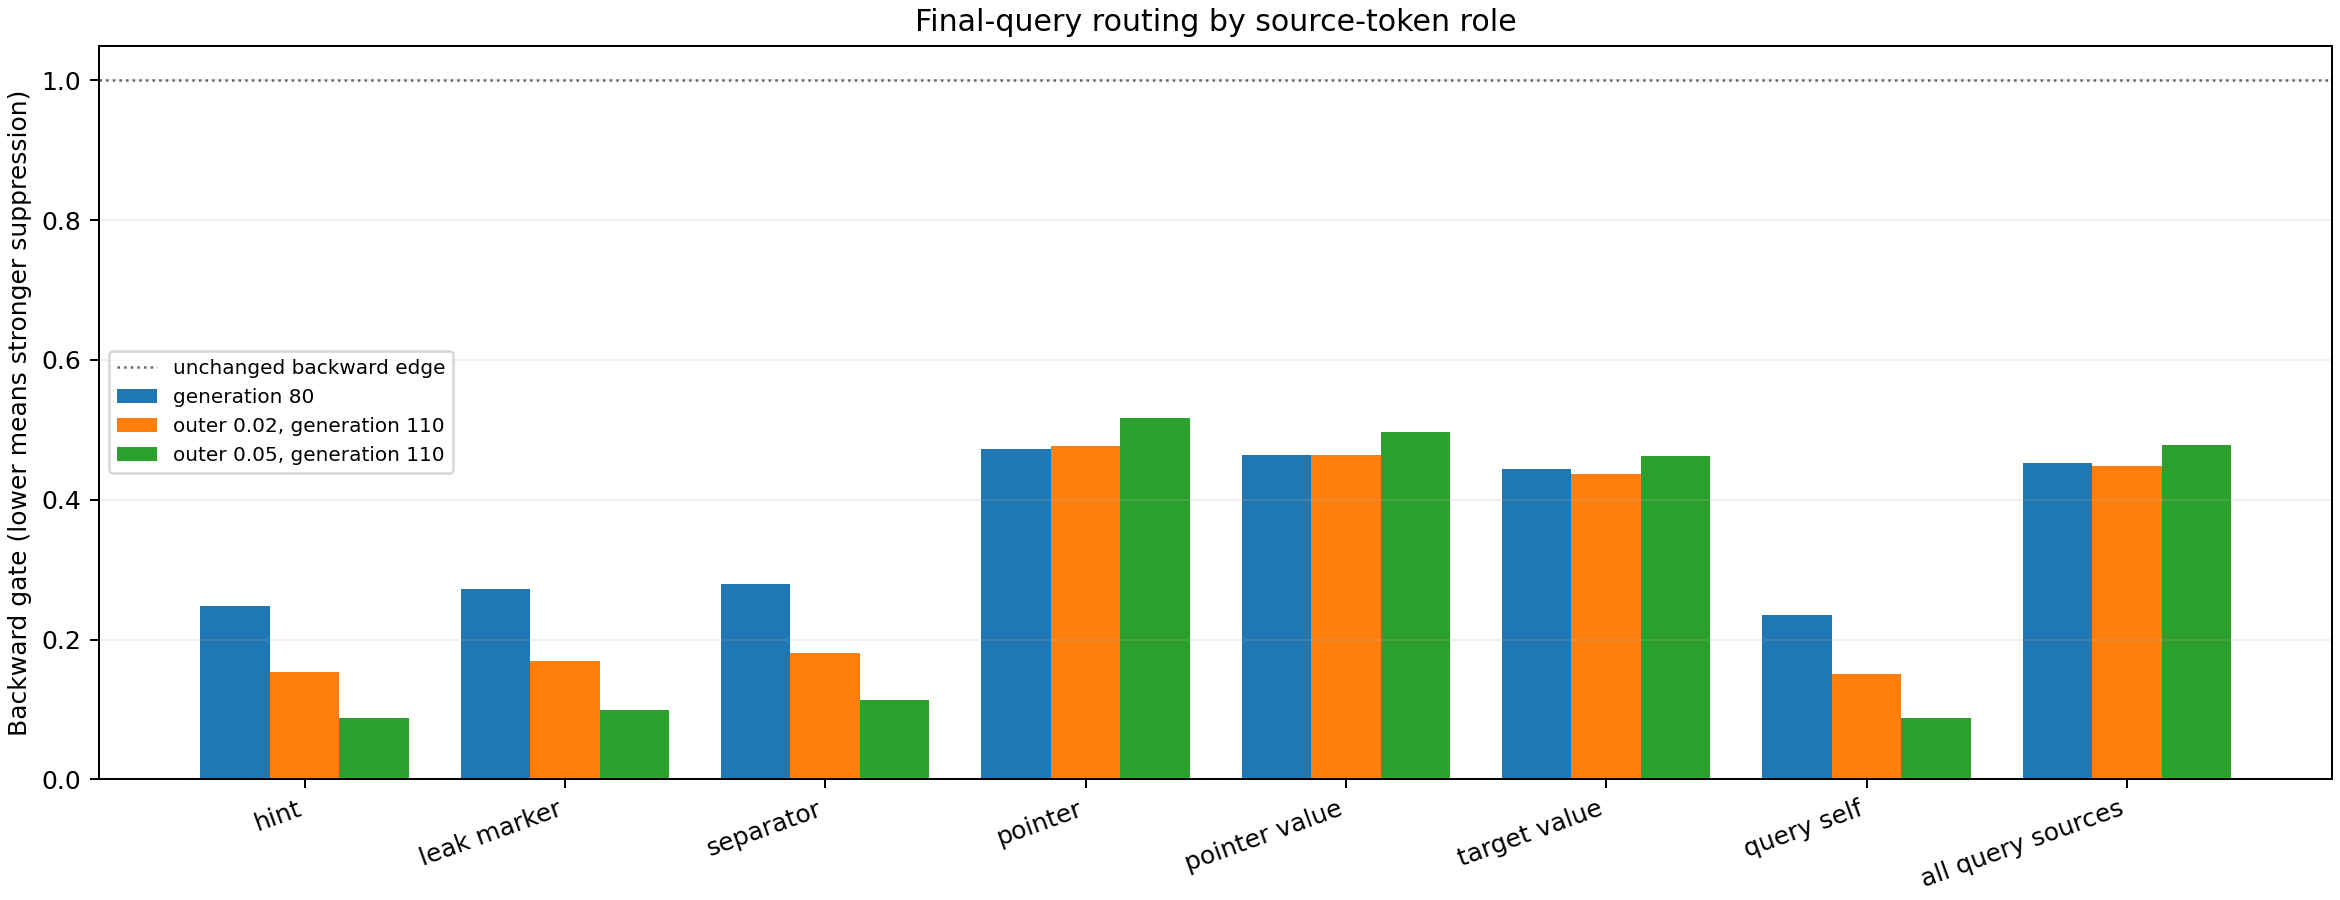
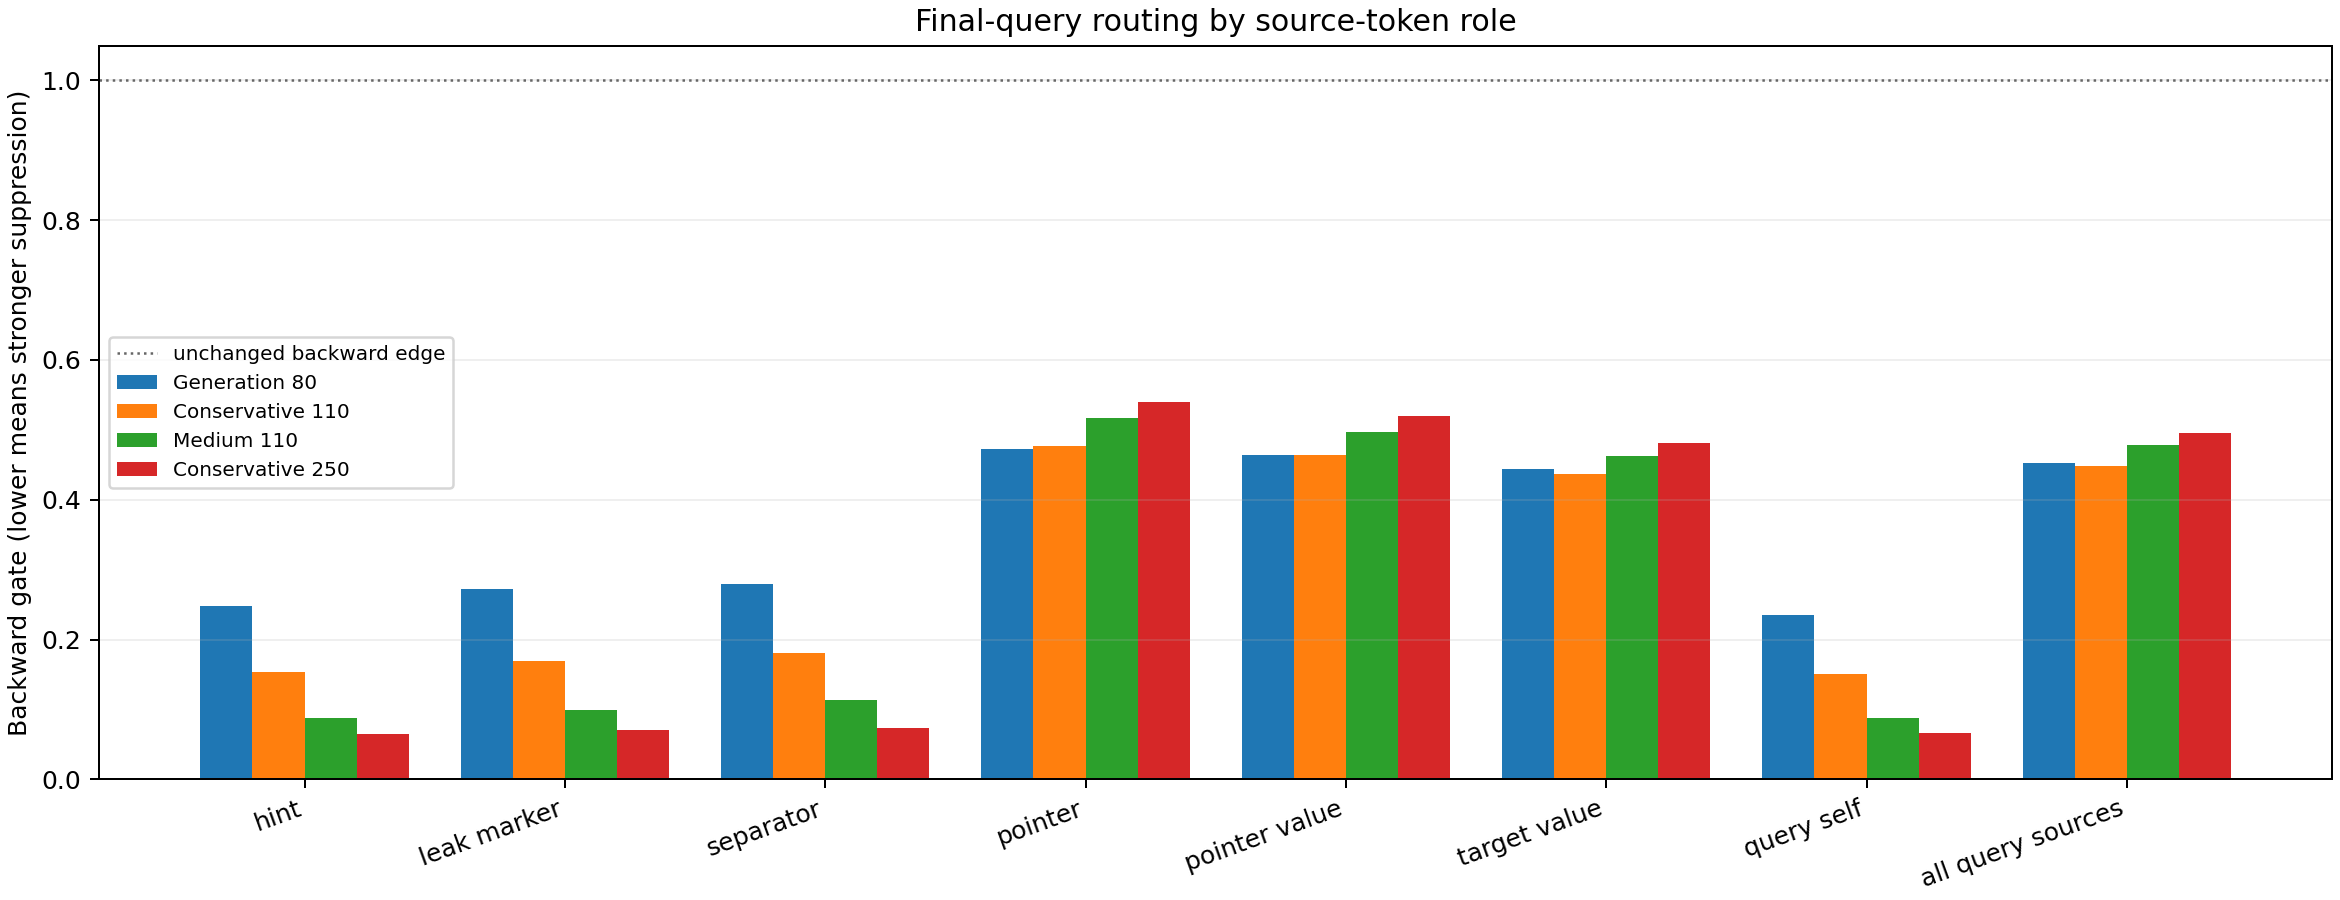
Validate fixed shortcut rule across replications

diff --git a/experiments/learned_backward_shortcuts/checkpoint_replication_diagnostic.py b/experiments/learned_backward_shortcuts/checkpoint_replication_diagnostic.py
@@ -1,0 +1,239 @@
+"""Replicate a learned backward-rule checkpoint against matched controls."""
+
+from __future__ import annotations
+
+import argparse
+import json
+import statistics
+from dataclasses import replace
+from pathlib import Path
+
+import torch
+
+from list_sorting_transformer.shortcut_credit import (
+    ShortcutPointerVocabulary,
+    make_fitness_batches,
+)
+from list_sorting_transformer.shortcut_credit_experiment import (
+    ShortcutCreditExperimentConfig,
+    initialize_forward_model,
+    load_checkpoint,
+    make_inner_batches,
+    make_mode_batches,
+    train_forward_trajectory,
+    trajectory_summary,
+)
+
+
+def aggregate_rows(rows: list[dict[str, float]]) -> dict[str, float]:
+    if not rows:
+        raise ValueError("at least one replication row is required")
+    metric_keys = (
+        "center_rule/min_mode_accuracy",
+        "center_rule/correct_leak_accuracy",
+        "center_rule/clean_loss",
+        "ordinary_rule/min_mode_accuracy",
+        "ordinary_rule/correct_leak_accuracy",
+        "ordinary_rule/clean_loss",
+        "masked_training/min_mode_accuracy",
+        "masked_training/correct_leak_accuracy",
+        "masked_training/clean_loss",
+        "comparison/center_minus_ordinary_min_accuracy",
+        "comparison/center_clean_loss_improvement_over_ordinary",
+    )
+    summary = {
+        f"mean/{key}": statistics.mean(row[key] for row in rows)
+        for key in metric_keys
+    }
+    accuracy_differences = [
+        row["comparison/center_minus_ordinary_min_accuracy"]
+        for row in rows
+    ]
+    loss_differences = [
+        row["comparison/center_clean_loss_improvement_over_ordinary"]
+        for row in rows
+    ]
+    summary.update(
+        {
+            "replicates": float(len(rows)),
+            "comparison/center_accuracy_win_fraction": (
+                sum(value > 0 for value in accuracy_differences) / len(rows)
+            ),
+            "comparison/center_loss_win_fraction": (
+                sum(value > 0 for value in loss_differences) / len(rows)
+            ),
+        }
+    )
+    return summary
+
+
+def main() -> None:
+    parser = argparse.ArgumentParser(description=__doc__)
+    parser.add_argument("--checkpoint", type=Path, required=True)
+    parser.add_argument("--replicates", type=int, default=20)
+    parser.add_argument("--replicate-start", type=int, default=0)
+    parser.add_argument("--generation-offset", type=int, default=1_000)
+    parser.add_argument("--horizon", type=int)
+    parser.add_argument("--device", default="cuda:0")
+    parser.add_argument("--output", type=Path, required=True)
+    parser.add_argument("--summary-output", type=Path)
+    args = parser.parse_args()
+    if args.replicates < 1:
+        raise ValueError("replicates must be positive")
+
+    device = torch.device(args.device)
+    checkpoint = torch.load(args.checkpoint, map_location=device)
+    saved_config = ShortcutCreditExperimentConfig(**checkpoint["config"])
+    backward_rule, _, checkpoint_horizon, _ = load_checkpoint(
+        args.checkpoint,
+        device=device,
+    )
+    horizon = checkpoint_horizon if args.horizon is None else args.horizon
+    config = replace(
+        saved_config,
+        horizon=horizon,
+        max_horizon=max(horizon, saved_config.max_horizon),
+        device=args.device,
+        resume=None,
+        wandb=False,
+    )
+    vocabulary = ShortcutPointerVocabulary("numbers", 10)
+    rows: list[dict[str, float]] = []
+    for replicate in range(
+        args.replicate_start,
+        args.replicate_start + args.replicates,
+    ):
+        generation = args.generation_offset + replicate
+        generation_seed = config.seed * 1_000_003 + generation * 10_007
+        base_model = initialize_forward_model(
+            config,
+            vocabulary,
+            initialization_seed=generation_seed + 1,
+            device=device,
+        )
+        base_state = {
+            name: tensor.detach().clone()
+            for name, tensor in base_model.state_dict().items()
+        }
+        del base_model
+        inner_batches = make_inner_batches(
+            config,
+            horizon=horizon,
+            vocabulary=vocabulary,
+            generator=torch.Generator().manual_seed(generation_seed + 2),
+            device=device,
+        )
+        masked_inner_batches = make_inner_batches(
+            config,
+            horizon=horizon,
+            vocabulary=vocabulary,
+            generator=torch.Generator().manual_seed(generation_seed + 2),
+            device=device,
+            leak_mode="masked",
+        )
+        evaluation_generator = torch.Generator().manual_seed(
+            generation_seed + 4
+        )
+        clean_batches = make_fitness_batches(
+            config.fitness_examples,
+            min_length=config.min_length,
+            max_length=config.max_length,
+            batch_size=config.fitness_batch_size,
+            generator=evaluation_generator,
+            vocabulary=vocabulary,
+            leak_placement=config.leak_placement,
+            device=device,
+        )
+        correct_batches = make_mode_batches(
+            config.correct_eval_examples,
+            leak_mode="correct",
+            config=config,
+            vocabulary=vocabulary,
+            generator=evaluation_generator,
+            device=device,
+        )
+        center = train_forward_trajectory(
+            config,
+            base_state=base_state,
+            backward_rule=backward_rule,
+            inner_batches=inner_batches,
+            fitness_batches=clean_batches,
+            correct_batches=correct_batches,
+            device=device,
+        )
+        ordinary = train_forward_trajectory(
+            config,
+            base_state=base_state,
+            backward_rule=None,
+            inner_batches=inner_batches,
+            fitness_batches=clean_batches,
+            correct_batches=correct_batches,
+            device=device,
+        )
+        masked = train_forward_trajectory(
+            config,
+            base_state=base_state,
+            backward_rule=None,
+            inner_batches=masked_inner_batches,
+            fitness_batches=clean_batches,
+            correct_batches=correct_batches,
+            device=device,
+        )
+        row: dict[str, float] = {
+            "replicate": float(replicate),
+            "generation_seed": float(generation_seed),
+        }
+        row.update(
+            trajectory_summary(
+                "center_rule",
+                None,
+                center.clean,
+                center.correct,
+            )
+        )
+        row.update(
+            trajectory_summary(
+                "ordinary_rule",
+                None,
+                ordinary.clean,
+                ordinary.correct,
+            )
+        )
+        row.update(
+            trajectory_summary(
+                "masked_training",
+                None,
+                masked.clean,
+                masked.correct,
+            )
+        )
+        row.update(
+            {
+                "comparison/center_minus_ordinary_min_accuracy": (
+                    row["center_rule/min_mode_accuracy"]
+                    - row["ordinary_rule/min_mode_accuracy"]
+                ),
+                "comparison/center_clean_loss_improvement_over_ordinary": (
+                    row["ordinary_rule/clean_loss"]
+                    - row["center_rule/clean_loss"]
+                ),
+            }
+        )
+        rows.append(row)
+        print(json.dumps(row, sort_keys=True), flush=True)
+
+    summary = aggregate_rows(rows)
+    print(json.dumps({"summary": summary}, sort_keys=True), flush=True)
+    args.output.parent.mkdir(parents=True, exist_ok=True)
+    args.output.write_text(
+        "".join(json.dumps(row, sort_keys=True) + "\n" for row in rows)
+    )
+    if args.summary_output is not None:
+        args.summary_output.parent.mkdir(parents=True, exist_ok=True)
+        args.summary_output.write_text(
+            json.dumps(summary, indent=2, sort_keys=True) + "\n"
+        )
+
+
+if __name__ == "__main__":
+    main()

diff --git a/tests/test_shortcut_checkpoint_replication.py b/tests/test_shortcut_checkpoint_replication.py
@@ -1,0 +1,55 @@
+from __future__ import annotations
+
+import pytest
+
+from experiments.learned_backward_shortcuts.checkpoint_replication_diagnostic import (
+    aggregate_rows,
+)
+
+
+def test_aggregate_rows_reports_paired_control_advantages() -> None:
+    rows = [
+        {
+            "center_rule/min_mode_accuracy": 0.4,
+            "center_rule/correct_leak_accuracy": 0.8,
+            "center_rule/clean_loss": 1.2,
+            "ordinary_rule/min_mode_accuracy": 0.1,
+            "ordinary_rule/correct_leak_accuracy": 1.0,
+            "ordinary_rule/clean_loss": 2.0,
+            "masked_training/min_mode_accuracy": 0.5,
+            "masked_training/correct_leak_accuracy": 0.7,
+            "masked_training/clean_loss": 1.0,
+            "comparison/center_minus_ordinary_min_accuracy": 0.3,
+            "comparison/center_clean_loss_improvement_over_ordinary": 0.8,
+        },
+        {
+            "center_rule/min_mode_accuracy": 0.0,
+            "center_rule/correct_leak_accuracy": 1.0,
+            "center_rule/clean_loss": 2.5,
+            "ordinary_rule/min_mode_accuracy": 0.1,
+            "ordinary_rule/correct_leak_accuracy": 1.0,
+            "ordinary_rule/clean_loss": 2.2,
+            "masked_training/min_mode_accuracy": 0.4,
+            "masked_training/correct_leak_accuracy": 0.6,
+            "masked_training/clean_loss": 1.1,
+            "comparison/center_minus_ordinary_min_accuracy": -0.1,
+            "comparison/center_clean_loss_improvement_over_ordinary": -0.3,
+        },
+    ]
+
+    summary = aggregate_rows(rows)
+
+    assert summary["replicates"] == 2
+    assert summary[
+        "mean/comparison/center_minus_ordinary_min_accuracy"
+    ] == pytest.approx(0.1)
+    assert summary[
+        "mean/comparison/center_clean_loss_improvement_over_ordinary"
+    ] == pytest.approx(0.25)
+    assert summary["comparison/center_accuracy_win_fraction"] == 0.5
+    assert summary["comparison/center_loss_win_fraction"] == 0.5
+
+
+def test_aggregate_rows_rejects_empty_input() -> None:
+    with pytest.raises(ValueError):
+        aggregate_rows([])

diff --git a/experiments/learned_backward_shortcuts/PROGRESS.md b/experiments/learned_backward_shortcuts/PROGRESS.md
@@ -1178,8 +1178,15 @@ the solution faster, but no longer provides a material accuracy advantage.
 Conservative retains ten points more correct-leak accuracy and marginally
 better prediction diversity. The medium run was therefore stopped cleanly
 after generation 149 and its durable `checkpoint_000150.pt` was preserved,
-releasing GPUs 0-1 for the semantic follow-up. Conservative remains active
-through generation 250 to measure long-run stability.
+releasing GPUs 0-1 for the semantic follow-up. The conservative run completed
+generation 249 and saved its durable `checkpoint_000250.pt`.
+
+In the final generations 240--249, the conservative centre averages `21.33%`
+masked, `18.13%` wrong-hint, `38.05%` correct-hint, and `17.81%` weaker-split
+accuracy. Its mean clean CE is `2.292`, and the hint-edge gate has fallen to
+`0.129` relative to other query sources. The final individual row is noisier
+(`16.02%` weaker split), so checkpoint quality is assessed below over fresh
+replications rather than from that one row.
 
 ![Horizon-80 centre-step comparison](results/attention_router_center_step_comparison.png)
 
@@ -1195,6 +1202,7 @@ values mean stronger suppression:
 | Generation 80 | 0.247 | 0.272 | 0.280 | 0.473 | 0.465 | 0.443 | 0.235 | 0.453 |
 | Conservative generation 110 | 0.153 | 0.170 | 0.180 | 0.477 | 0.464 | 0.437 | 0.150 | 0.448 |
 | Medium generation 110 | 0.087 | 0.100 | 0.114 | 0.516 | 0.497 | 0.463 | 0.088 | 0.479 |
+| Conservative generation 250 | 0.064 | 0.070 | 0.074 | 0.540 | 0.519 | 0.481 | 0.066 | 0.495 |
 
 ![Attention-router gates by token role](results/attention_router_routing_roles.png)
 
@@ -1229,6 +1237,30 @@ rule does not need a semantic explanation of the leak to improve the forward
 learner. An input-conditioned semantic router would be more general, but is a
 follow-up rather than a requirement for calling the fixed-layout experiment a
 success.
+
+That conclusion is now confirmed by 20 fresh checkpoint-250 replications with
+matched forward initializations, training examples, and evaluation examples:
+
+| 20-replication mean | Evolved centre | Ordinary training | Masked training |
+| --- | ---: | ---: | ---: |
+| Weaker-split accuracy | 17.15% | 0.0% | 16.39% |
+| Correct-hint accuracy | 39.30% | 100.0% | 27.46% |
+| Clean CE | 2.326 | 3.206 | 2.264 |
+
+The evolved centre beats ordinary training on both weaker-split accuracy and
+clean CE in all 20 replications. Its mean accuracy slightly exceeds direct
+masked training, although masked training retains a modest CE advantage.
+This is strong evidence that the learned training-only backward rule enables
+the real pointer function to be learned from shortcut-containing data. It
+also supports treating early broad or nonuniform routing as a possible
+intermediate phase rather than requiring immediate convergence to a clean
+selective mask. Behavioral advantage and routing structure should be tracked
+separately over time; the final fixed-position rule became clearly selective
+only later.
+
+Replication artifacts:
+[`raw JSONL`](results/fixed_checkpoint250_replications.jsonl) and
+[`summary`](results/fixed_checkpoint250_replications_summary.json).
 
 The same diagnostic at other lengths exposes a current generalization limit:
 
@@ -1568,7 +1600,11 @@ pointer function. Across these rows its mean gate falls to `0.661`, while the
 mean all-hint-source relative gate remains `1.000`. The present evidence is
 therefore negative for centre learning and still shows global rather than
 moving-hint-specific suppression. This remains an interim result before the
-longer horizon requested for learned credit assignment.
+longer horizon requested for learned credit assignment. In particular, the
+fixed-position trajectory shows that broad or otherwise nonuniform routing can
+precede later convergence to a selective rule. The randomized run should
+therefore be judged primarily by matched behavioral improvement while also
+tracking selectivity as an explanatory diagnostic, not as a prerequisite.
 
 From checkpoint 20 onward, every population candidate is also evaluated on the
 fresh held-out set. The metrics retain outer-set selection indices, then report
@@ -1596,3 +1632,11 @@ candidate-level link between semantic hint suppression and fresh function
 learning. The unresolved problem is now narrower: EGGROLL reliably samples
 useful, generalizing rules, but its accumulated centre still fails to capture
 them.
+
+Generations 21 and 22 replicate candidate generalization: outer-selected
+robust rules reach `52.73%` and `42.97%` fresh weaker-split accuracy, and the
+population outer/fresh objective correlations remain `0.9980` and `0.9988`.
+Their all-hint-source ratios are `1.001` and `0.994`, however. Generation 20's
+semantic suppression is therefore not the only useful candidate mechanism.
+The population can discover broader nonuniform rules before, or instead of,
+converging to a simple moving-hint mask.
